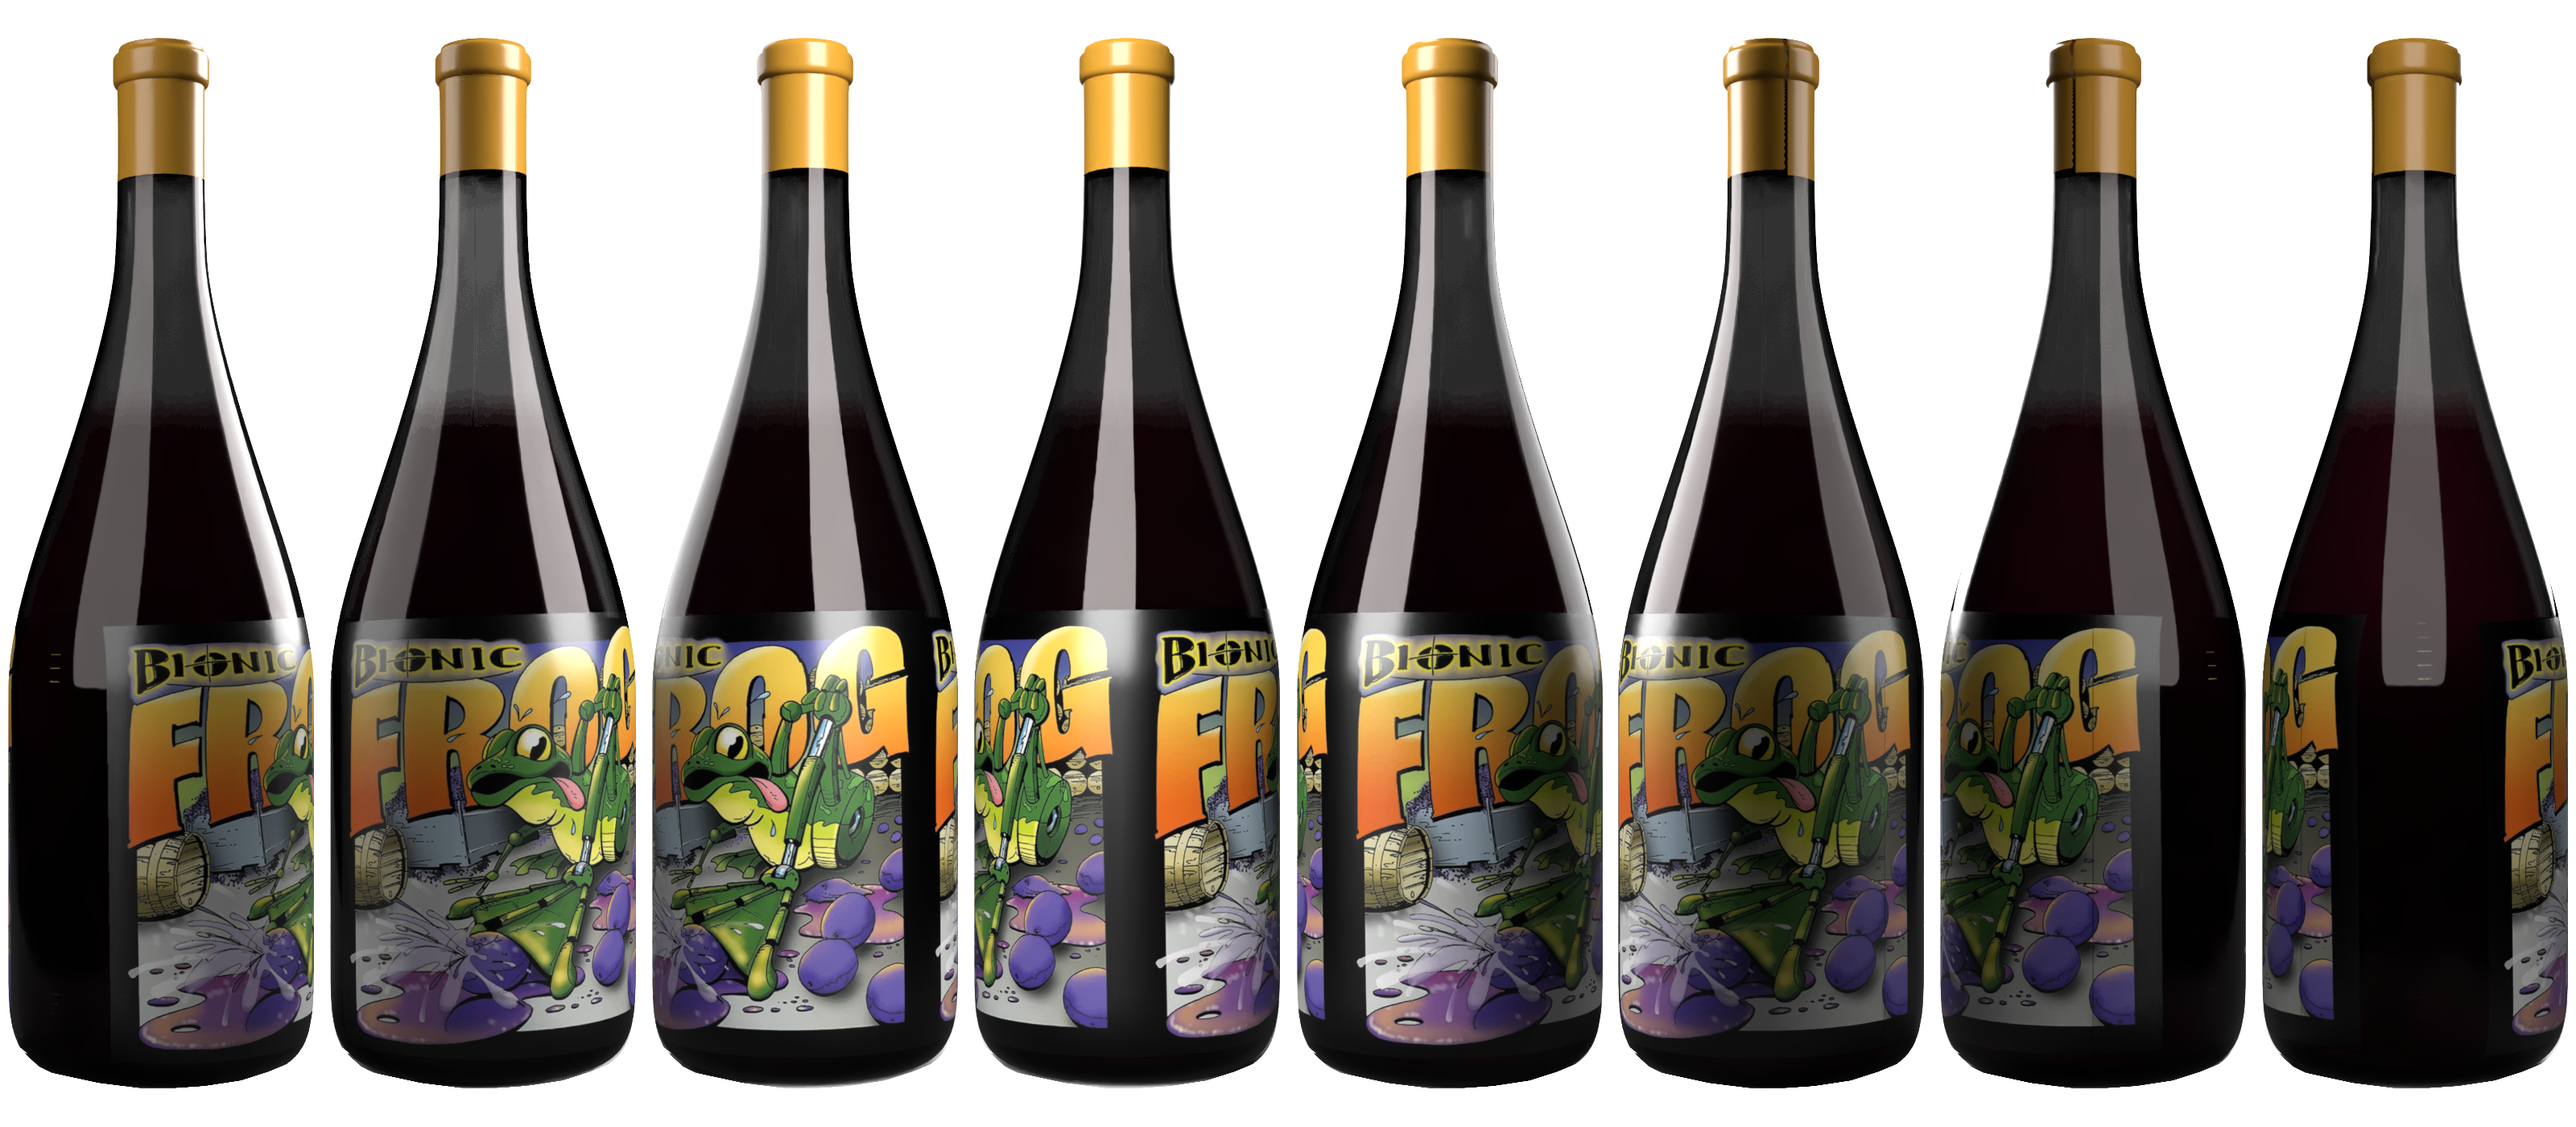
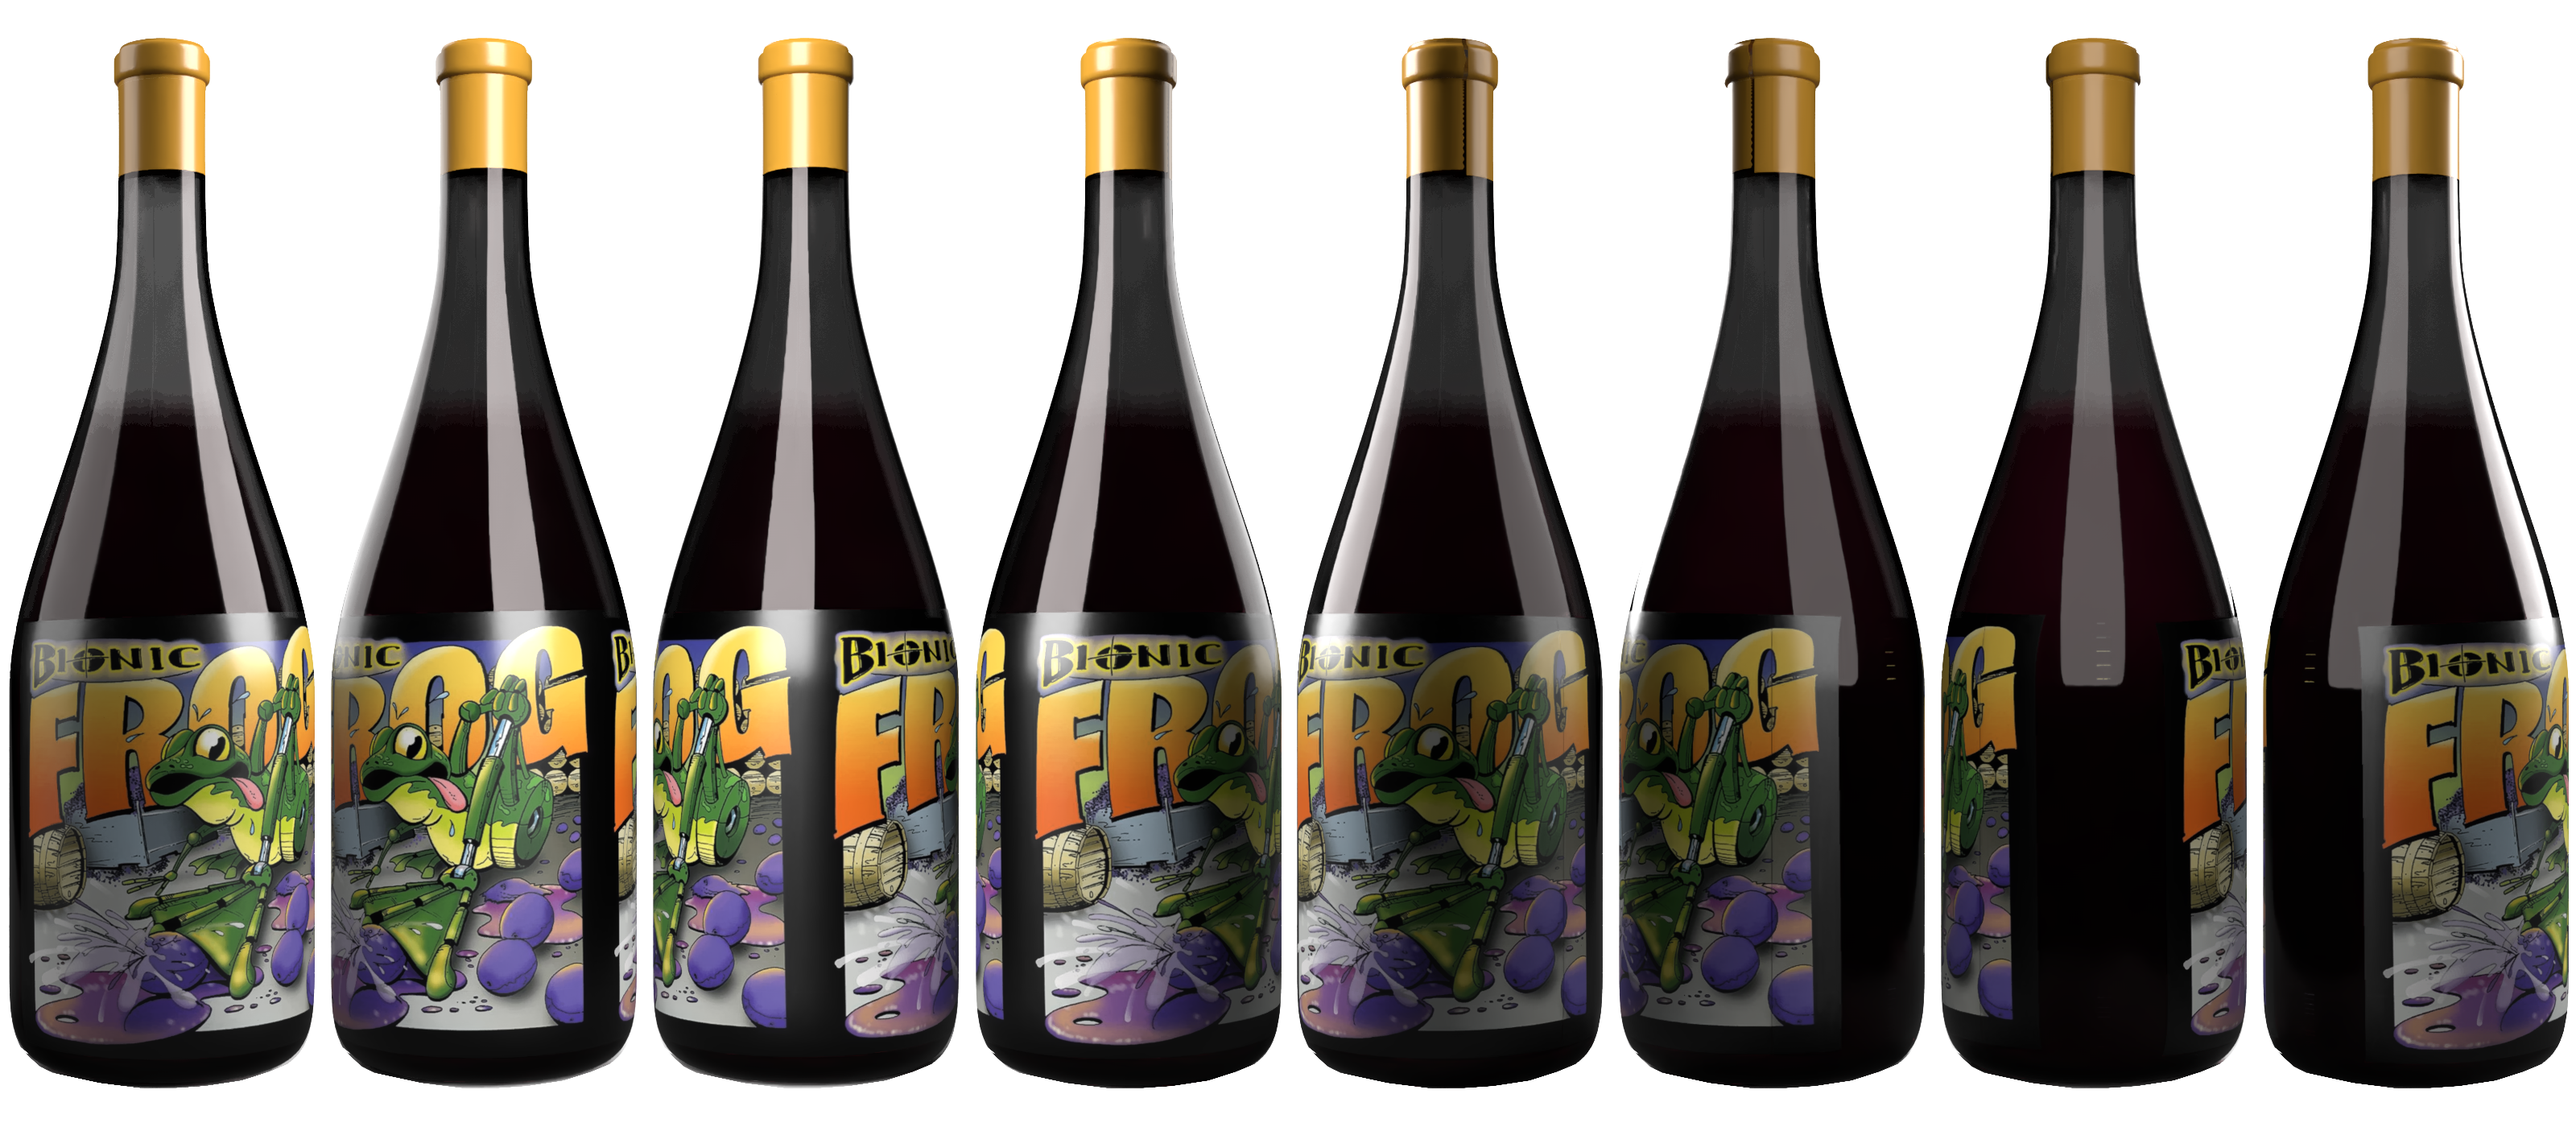
refines spin

diff --git a/src/components/SpinningBottle.svelte b/src/components/SpinningBottle.svelte
@@ -1,6 +1,8 @@
 <script>
     let leftPos = "-50%";
     let shouldSpin = true;
+    let wineWidth;
+
     setTimeout(() => {
         leftPos = "50%"
     },200)
@@ -8,11 +10,36 @@
     function handleTransitionEnd() {
         shouldSpin = false;
     }
+
+    function mousemoveBottle(e) {
+        let container = e.currentTarget;
+        let mouseX = e.offsetX;
+        wineWidth = container.offsetWidth;
+
+        console.log(mouseX)
+
+        if (mouseX < wineWidth / 5) {
+            container.style.backgroundPosition = "200% 0"; // First section
+        } else if (mouseX < (2 * wineWidth) / 5) {
+            container.style.backgroundPosition = "100% 0"; // Second section
+        } else if (mouseX < (3 * wineWidth) / 5) {
+            container.style.backgroundPosition = "0 0"; // Third section
+        } else if (mouseX < (4 * wineWidth) / 5) {
+            container.style.backgroundPosition = "-100% 0"; // Fourth section
+        } else {
+            container.style.backgroundPosition = "-200% 0"; // Fifth section
+        }
+    }
+
+    function mouseleaveBottle(e) {
+        let container = e.currentTarget;
+        container.style.backgroundPosition = "0 0"; 
+    }
 </script>
 
 <div class="banner">
     <div class="product" style="left: {leftPos}" on:transitionend={handleTransitionEnd}>
-        <div class="wine" class:spin={shouldSpin}></div>
+        <div class="wine" class:spin={shouldSpin} on:mousemove={mousemoveBottle} on:mouseleave={mouseleaveBottle}></div>
     </div>
 </div>
 
@@ -32,7 +59,7 @@
         transform: translateX(-50%);
         z-index: 1;
         --left: 0;
-        transition: 0.75s ease-in;
+        transition: 2s ease-in;
     }
     .banner .product .wine {
         background: url("assets/images/stock/testspin.png");
@@ -40,14 +67,20 @@
         background-size: auto 100%;
         height: 100%;
         aspect-ratio: 1/3.5;
+        cursor: pointer;
+    }
+
+    .banner .product .wine:hover {
+        background-position: -14% 0;
     }
 
     /* Define spin class for animation */
     .spin {
-        animation: spin 0.3s steps(8) infinite;
+        animation: spin 0.6s steps(8) infinite;
+        transition: background-position 0s; 
     }
 
     @keyframes spin {
-        100% { background-position: -3200px 0; }
+        100% { background-position: -800% 0; }
     }
 </style>

diff --git a/src/components/Intro.svelte b/src/components/Intro.svelte
@@ -81,6 +81,7 @@
         width: 100%;
         position: absolute;
         z-index: 999;
+        pointer-events: none;
     }
 
     .text-container p {
@@ -88,6 +89,7 @@
         max-width: 300px;
         position: absolute;
         color: var(--wine-tan);
+        pointer-events: auto;
     }
 
     .text-container p:first-of-type {
